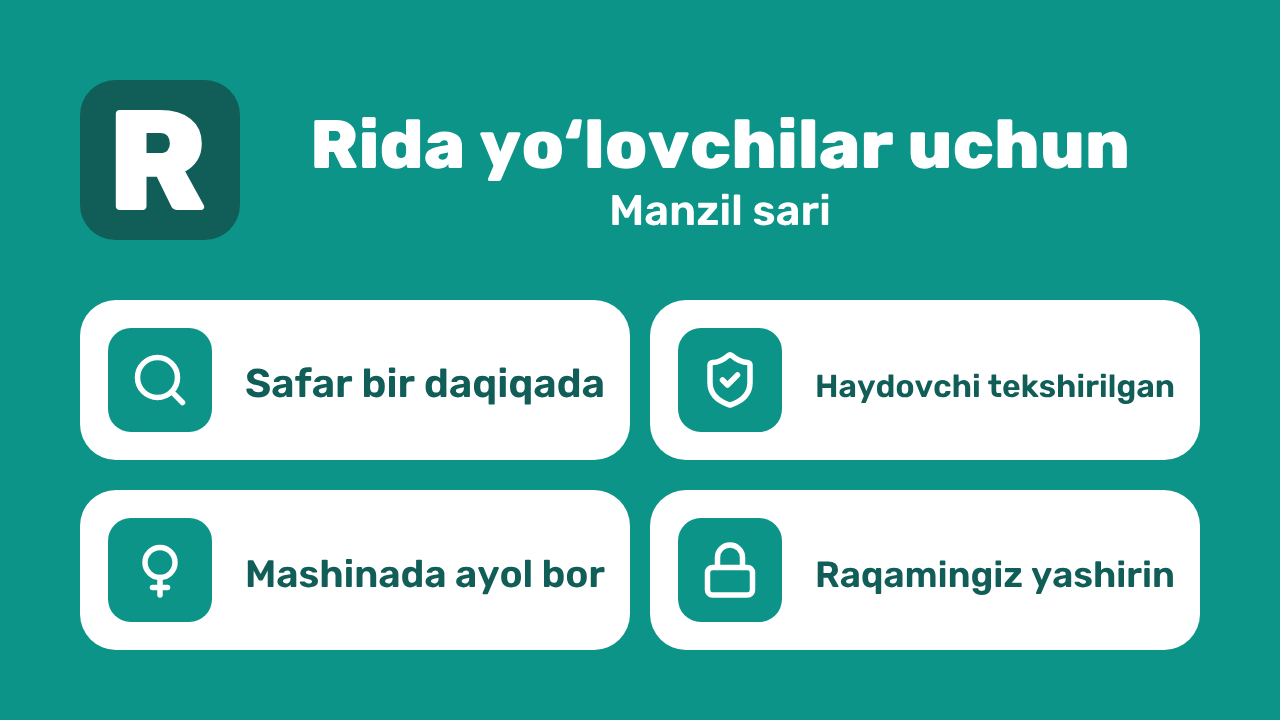
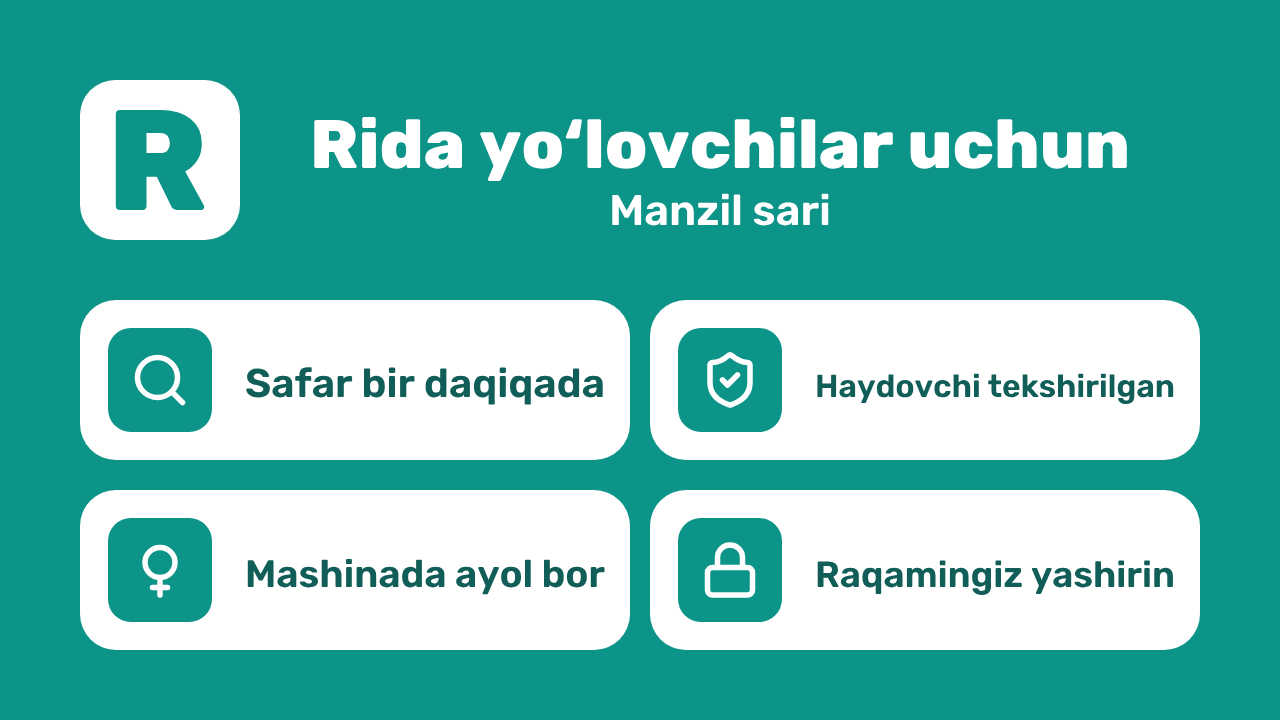
Приветственные фото ботов: логотип по таблице docs/36, адрес с версией, сайт раньше Worker (уроки №313, №314) (#270)

Changed region(s): [[0.0625, 0.0917, 0.1875, 0.3361]]

diff --git a/apps/backend/src/bots/webhook-routes.test.ts b/apps/backend/src/bots/webhook-routes.test.ts
@@ -21,7 +21,9 @@ describe('POST /telegram/:role', () => {
   it('greets a passenger with the picture and what the brand gives a passenger (03.10.2026)', async () => {
     const reply = (await (await send('passenger', start())).json()) as PhotoReply;
     expect(reply).toMatchObject({ method: 'sendPhoto', chat_id: 42 });
-    expect(reply.photo).toBe(`https://${brand.domain}/bot/passenger-welcome.png`);
+    expect(reply.photo).toBe(
+      `https://${brand.domain}/bot/passenger-welcome.png?v=${brand.welcomes.passenger}`,
+    );
     expect(reply.caption.startsWith(`Assalomu alaykum! ${brand.name}: `)).toBe(true);
     expect(reply.caption).toContain('Yoʻlovchi sifatida siz:');
     expect(reply.reply_markup.inline_keyboard[0]?.[0]).toEqual({
@@ -99,7 +101,7 @@ describe('POST /telegram/:role', () => {
   it('greets a driver with the picture, what the brand gives and the bonus of the brand (G34)', async () => {
     const reply = (await (await send('driver', start())).json()) as PhotoReply;
     expect(reply).toMatchObject({ method: 'sendPhoto', chat_id: 42 });
-    expect(reply.photo).toBe(`https://${brand.domain}/bot/driver-welcome.png`);
+    expect(reply.photo).toBe(`https://${brand.domain}/bot/driver-welcome.png?v=${brand.welcomes.driver}`);
     expect(reply.caption.startsWith(`Assalomu alaykum! ${brand.name}: `)).toBe(true);
     expect(reply.caption).toContain(`Boshlash uchun ${formatMoney(brand.promo.amount)} bonus.`);
     expect(reply.reply_markup.inline_keyboard).toEqual([

diff --git a/apps/backend/src/bots/main-bot.test.ts b/apps/backend/src/bots/main-bot.test.ts
@@ -23,7 +23,7 @@ describe('the main bot of the waitlist (G83, docs/181)', () => {
   it('greets with the picture, the three questions and «Roʻyxatga yozilish»', async () => {
     const answer = await welcome(41, '/start ad-k7f2qx');
     expect(answer.method).toBe('sendPhoto');
-    expect(answer.photo).toBe(`https://${brand.domain}/bot/main-welcome.png`);
+    expect(answer.photo).toBe(`https://${brand.domain}/bot/main-welcome.png?v=${brand.welcomes.main}`);
     expect(answer.caption).toContain('Assalomu alaykum, Ali! 👋');
     expect(answer.caption).toContain('🔎 Guruhlardan kerakli eʼlonni topish qiyinmi?');
     expect(answer.reply_markup.inline_keyboard[0]?.[0]?.web_app?.url).toBe(`https://main.${brand.domain}/`);
@@ -52,7 +52,9 @@ describe('the main bot of the waitlist (G83, docs/181)', () => {
       .run();
     const answer = await welcome(44, '/start');
     expect(answer.caption).toContain('ochildi');
-    expect(answer.photo).toBe(`https://${brand.domain}/bot/main-open-welcome.png`);
+    expect(answer.photo).toBe(
+      `https://${brand.domain}/bot/main-open-welcome.png?v=${brand.welcomes['main-open']}`,
+    );
     const urls = answer.reply_markup.inline_keyboard.flat().map((button) => button.url ?? '');
     expect(urls).toContain(`https://t.me/${brand.bots.passenger}?startapp=__main`);
     expect(urls).toContain(`https://t.me/${brand.bots.driver}?startapp=__main`);

diff --git a/apps/backend/src/bots/start-reply.ts b/apps/backend/src/bots/start-reply.ts
@@ -1,15 +1,15 @@
-import { appHost, type BrandConfig } from '@platform/brands';
+import { appHost, type BotWelcome, type BrandConfig } from '@platform/brands';
 import { createI18n, DEFAULT_LOCALE } from '@platform/i18n';
 import type { BotRole } from './bot-roles';
 
 const { t, formatMoney } = createI18n(DEFAULT_LOCALE);
 // A driver who came from the passenger bot already knows Rida: another first line (G34).
 const FROM_PASSENGER = 'from_passenger';
-// The welcome pictures of the public bots, served by the landing (brand-kit/landing/bot.mjs).
+// The welcome pictures of the public bots, served by the landing (brand-kit/landing/bot.mjs) under the
+// version of their look: Telegram keeps a picture by its address (lesson №311).
 // main-open: the main bot when the owner closed the list (G83, docs/181), without «Tez orada».
-type Welcome = 'passenger' | 'driver' | 'support' | 'main' | 'main-open';
-export const welcomePicture = (brand: BrandConfig, role: Welcome) =>
-  `https://${brand.domain}/bot/${role}-welcome.png`;
+export const welcomePicture = (brand: BrandConfig, role: BotWelcome) =>
+  `https://${brand.domain}/bot/${role}-welcome.png?v=${brand.welcomes[role]}`;
 
 // A close person opens the passenger Mini App to follow a trip, no registration (docs/43).
 const FOLLOW_PAYLOAD = /^follow_([A-Za-z0-9_-]{43})$/u;

diff --git a/brands/brand-config.ts b/brands/brand-config.ts
@@ -89,6 +89,9 @@ export type BrandChannel = {
   readonly page?: string;
 };
 
+// The pictures of the first message of the public bots (G34, G83): brand-kit/landing/bot.mjs makes them.
+export type BotWelcome = 'passenger' | 'driver' | 'support' | 'main' | 'main-open';
+
 type BotNames = {
   readonly passenger: string;
   readonly driver: string;
@@ -114,6 +117,8 @@ export type BrandConfig = PeopleRules & {
   readonly app?: AppName; // set by brandForApp: the colors and the drawings of one Mini App
   // Telegram usernames of the bots (docs/02, docs/46): deep links between them; support answers people (docs/50).
   readonly bots: BotNames;
+  // The version of every welcome picture, from its drawing: a new look, a new address (lesson №311).
+  readonly welcomes: Readonly<Record<BotWelcome, string>>;
   // An environment of the team only (owner, 17.10.2026, docs/179): anyone outside the team is sent
   // to these bots of production; null where people are welcome.
   readonly teamOnly: BotNames | null;

diff --git a/brands/rida/brand.config.ts b/brands/rida/brand.config.ts
@@ -1,5 +1,7 @@
 import type { BrandBase } from '../brand-config';
 import { theme } from './theme.ts';
+// The versions of the welcome pictures of the bots: pnpm bot of the brand kit writes them (docs/38).
+import welcomes from './welcomes.json' with { type: 'json' };
 
 // The address, the bots and the channels differ by environment: environments.ts (docs/179).
 export const brandConfig: BrandBase = {
@@ -11,6 +13,7 @@ export const brandConfig: BrandBase = {
   promo: { amount: 500_000, grants: 3, days: 30, windowDays: 90 },
   theme,
   regionPhotos: true,
+  welcomes,
   pricing: 'per-km',
   // docs/29: 3 times the usual hour and at least 10 errors; a step 20 points worse than the week
   // from at least 20 people; the same signal once in 6 hours.

diff --git a/e2e/stand/first-contact.spec.ts b/e2e/stand/first-contact.spec.ts
@@ -38,7 +38,7 @@ test('the driver bot: before «Start», the welcome, from the passenger bot, any
   await beforeStart(page, DRIVER_BOT, t('bot.profile.driver.description'));
   await shot(page, '01-bot-before-start');
   const welcome = await say('driver', NEWCOMERS.android, '/start');
-  expect(welcome.photo).toMatch(/\/bot\/driver-welcome\.png$/u);
+  expect(welcome.photo).toMatch(/\/bot\/driver-welcome\.png\?v=[0-9a-f]{8}$/u);
   expect(welcome.caption).toMatch(/500\s000/u);
   expect(buttonsOf(welcome)).toEqual([t('bot.open')]);
   await answered(page, DRIVER_BOT, '/start', welcome);

diff --git a/apps/backend/src/bots/support-bot.test.ts b/apps/backend/src/bots/support-bot.test.ts
@@ -24,7 +24,7 @@ describe('the support bot', () => {
     };
     expect(welcome).toMatchObject({
       method: 'sendPhoto',
-      photo: `https://${brand.domain}/bot/support-welcome.png`,
+      photo: `https://${brand.domain}/bot/support-welcome.png?v=${brand.welcomes.support}`,
     });
     expect(welcome.caption).toContain(`Bu ${brand.name} yordam xizmati.`);
     expect(welcome.caption).toContain('har kuni soat 7:00 dan 23:00 gacha');

diff --git a/brands/index.ts b/brands/index.ts
@@ -6,6 +6,7 @@ export type {
   AlertRules,
   BrandChannel,
   BrandColors,
+  BotWelcome,
   BrandConfig,
   CommissionRule,
   EnvironmentName,

diff --git a/docs/190-lessons-learned-17.md b/docs/190-lessons-learned-17.md
@@ -36,3 +36,17 @@
 - **Причина:** Telegram открывает профиль по номеру, только если человек сам писал боту, который шлёт ссылку. Люди пишут боту попутчика и водителя, админ-боту никогда. Правило Bot API я не прочитал до работы.
 - **Следствие:** ссылка почти всегда была бы простым текстом. Команда думала бы, что профиль открыть можно, а он не открывался.
 - **Урок:** любую возможность Telegram сначала сверяю с текстом Bot API (кто кого знает, какие права), до кода. Профиль открываю через бот, который человек знает.
+
+### №313. Плитка логотипа на приветственных фото была не по таблице
+
+- **Что случилось:** 18.10.2026, день запуска: владелец спросил, сходятся ли картинки ботов с утверждённым логотипом. На фото после /start у попутчика и поддержки логотип был тёмно-бирюзовой плиткой с белой «R». Такого сочетания нет в таблице `36`.
+- **Причина:** 03.10 (G35) я сделал фото попутчика и поддержки из фото водителя и оставил его плитку. Макета не было, по таблице `36` я фото не сверял.
+- **Следствие:** первое фото, которое видит человек, две недели шло в ботах с логотипом не по правилам бренда.
+- **Урок:** любой логотип на любой картинке берёт сочетание из таблицы `36` в коде (`COMBOS`), а тест сверяет каждую картинку. Новая картинка с логотипом сразу получает строку в таблице «где нужен логотип».
+
+### №314. Новый адрес фото раньше самого фото
+
+- **Что случилось:** 18.10.2026: в PR #270 бот стал слать фото после /start по адресу с версией (урок №311). Проверяющий агент нашёл гонку: `pnpm run deploy` выкладывал Worker раньше сайта.
+- **Причина:** 1…3 минуты новый Worker шлёт новый адрес, а сайт ещё отдаёт старое фото: версию в адресе сайт не смотрит.
+- **Следствие:** Telegram мог запомнить старое фото под новым адресом до следующей смены вида. Нашлось до выкладки, людей не задело.
+- **Урок:** то, на что код ссылается, выкладывается раньше кода: сначала сайт, потом Worker. Версия считается от рисунка, поэтому рисунок без `pnpm bot` роняет тест.

diff --git a/docs/38-brand-kit.md b/docs/38-brand-kit.md
@@ -58,7 +58,7 @@
 | Боты Telegram | `telegram/`: 4 аватара (R и знак роли, у поддержки свои цвета, `lib/avatar.mjs`), 4 картинки описания 640 × 360, экран загрузки (SVG, один контур) |
 | Каналы | `telegram/channels/`: 13 аватаров, 13 картинок к постам (`37`) |
 | Сайт | `web/`: favicon (svg, ico), иконка iPhone, 192, 512, превью ссылки 1200 × 630 |
-| Боты (G34) | `pnpm bot`: картинки приветствия водителя, попутчика и поддержки `driver-welcome.png`, `passenger-welcome.png`, `support-welcome.png` и JPG-аватары 4 ботов в `brands/rida/landing/bot/`; сайт отдаёт их, бот шлёт картинку по адресу, аватары ставит `/telegram/setup` (`setMyProfilePhoto`) |
+| Боты (G34) | `pnpm bot`: картинки приветствия водителя, попутчика и поддержки `driver-welcome.png`, `passenger-welcome.png`, `support-welcome.png` и JPG-аватары 4 ботов в `brands/rida/landing/bot/`; сайт отдаёт их, бот шлёт картинку по адресу с версией из `brands/rida/welcomes.json` (её пишет `pnpm bot`, урок №311), аватары ставит `/telegram/setup` (`setMyProfilePhoto`) |
 | Лендинг | `pnpm landing`: картинки из сцен ролика в `brands/rida/landing/art/` и дороги карты `data/hero-roads.json` (`59`, `60`) |
 | Шрифт сайта | `python3 tools/web-font.py` (нужен `fonttools`, `brotli`): Rubik 300…900 в `brands/rida/landing/fonts/brand.woff2`, знак ʻ из глифа ‘ (`60`) |
 | Соцсети | `social/`: посты «Tez orada», запуск, «Mashinada ayol bor»; сторис для водителей и «Yangi safar» |

diff --git a/docs/36-logo.md b/docs/36-logo.md
@@ -62,6 +62,7 @@
 | Аватары 13 каналов | Номер «код \| R» и название области | 1, белый номер, чёрный код | 640 × 640 | PNG |
 | Экран загрузки Mini App (3 бота) | «R» без фона, один `<path>`, без `fill` | BotFather, «Configure Splash Screen»: фон цвета Mini App, «R» белая, как наш сплэш (`121` §4, решение владельца 06.10) | 512 × 512 | SVG до ~5 КБ |
 | Картинка описания бота (до /start) | «R» и слоган на фоне | как у бота | 640 × 360 | PNG |
+| Картинка приветствия бота (после /start) | Скруглённый квадрат в углу | сочетание, видное на цвете бота: попутчик 2, водитель 5, поддержка 1 (решение владельца 18.10, урок №313) | 160 в 1280 × 720 | PNG |
 | Сплэш-экран Mini App (каждый запуск) | Скруглённый квадрат + «Rida» + «Manzil sari» на фоне цвета Mini App | 2, 4, 7 | вектор в `index.html` | SVG |
 | Экран приветствия Mini App | Скруглённый квадрат + «Rida» + «Manzil sari» | 1 (у водителя 6); форма, размер и «R» одинаковые, разные только цвета (решение владельца 06.10) | вектор | SVG |
 | Favicon сайта | Скруглённый квадрат | 1 | 16, 32, 48 + SVG | ICO, SVG |

diff --git a/docs/46-infrastructure.md b/docs/46-infrastructure.md
@@ -70,6 +70,7 @@
 ## Деплой
 
 - `pnpm run deploy --brand=rida --env=internal|production`: одна команда на бренд и среду (`45`, `179`).
+  Порядок: сайт, потом Worker, потом Mini App. Бот шлёт новый адрес картинки сайта, только когда сайт её уже отдаёт (урок №314).
 - CI: только на `main`, после барьеров: `deploy-internal` сам, без **Approve** (решение владельца 13.10.2026).
   Прод: свой workflow «Deploy production» после зелёного CI, с **Approve** (G84, `179`).
 - **Одобрение деплоя прода (решение владельца 29.09.2026):** только в GitHub Mobile.
